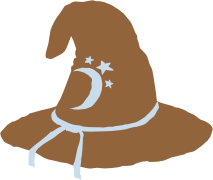
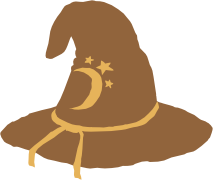
introductory section complete

Changed region(s): [[0.1127, 0.5556, 0.7606, 1.0], [0.338, 0.3056, 0.5352, 0.6111]]

diff --git a/static/style.css b/static/style.css
@@ -1,6 +1,7 @@
 body {
     background-color: rgb(20,40,65);
     font-family: Ubuntu, Helvetica, sans-serif;
+    padding-bottom: 80px;
 }
 
 body > h1 {
@@ -10,19 +11,19 @@ body > h1 {
 
 #logo {
     text-align: center;
+    margin-bottom: -50px;
 }
 
 #sections {
     display: inline-block;
-    vertical-align: top;
-    margin-top: 50px;
-    margin-left: -60px;
-    width: 200px;
+    vertical-align: bottom;
+    padding-bottom: 30px;
+    margin-left: -55px;
     font-size: 24px;
-    margin-bottom: 40px;
 }
 
-#sections a:link, #sections a:visited {
+#sections a:link,
+#sections a:visited {
     color: rgb(90,140,230);
     text-decoration: none;
 }
@@ -31,13 +32,20 @@ body > h1 {
     color: rgb(140,190,230);
 }
 
+.blue {
+    color: rgb(90,140,230);
+}
+
+.gold {
+    color: rgb(230,182,91);
+}
+
 #tagline {
     position: relative;
     color: rgb(90,140,230);
     max-width: 690px;
     margin: auto;
     font-size: 32px;
-    margin-top: -45px;
     margin-bottom: 40px;
 }
 
@@ -55,9 +63,49 @@ body > h1 {
     color: rgb(200,220,235);
 }
 
-#splash .step {
-    max-width: 500px;
+#splash .code {
+    border-color: rgb(90,140,230);
+    border-style: solid;
+    border-width: 2px;
+    border-radius: 5px;
+    
+    width: 600px;
+    padding: 5px;
+    
+    color: rgb(200,220,235);
     margin: auto;
+    margin-top: 10px;
+    margin-bottom: 10px;
+    
+    font-family: monospace;
+    font-size: 1.2em;
+    
+    background-color: rgb(20,30,49);
+}
+
+#splash .code .require {
+    color: rgb(90,140,230);
+}
+
+#splash .code .require .string {
+    color: rgb(230,182,91);
+}
+
+#splash .step {
+    max-width: 600px;
+    margin: auto;
+    margin-top: 1em;
+    margin-bottom: 1em;
+}
+
+#splash .step a:link,
+#splash .step a:visited {
+    color: rgb(90,140,230);
+    text-decoration: none;
+}
+
+#splash .step a:hover {
+    color: rgb(230,182,91);
 }
 
 #article-box {
@@ -87,7 +135,8 @@ body > h1 {
     padding-left: 5px;
 }
 
-.article .title a:link, .article .title a:visited {
+.article .title a:link,
+.article .title a:visited {
     color: rgb(230,240,245);
     text-decoration: none;
 }
@@ -97,7 +146,7 @@ body > h1 {
     text-decoration: underline;
 }
 
-.article .inner {
+.article > .inner {
     background-color: rgb(230,240,245);
     border-radius: 3px;
     color: rgb(5,10,24);
@@ -136,8 +185,9 @@ body > h1 {
 }
 
 #preview-box {
-    max-width: 700px;
+    max-width: 650px;
     margin: auto;
+    margin-top: 40px;
 }
 
 #preview-box .hat {
@@ -154,6 +204,9 @@ body > h1 {
 
 .preview {
     display: none;
+}
+
+.preview > .inner {
     border-color: rgb(90,140,230);
     border-style: solid;
     border-width: 2px;
@@ -161,7 +214,6 @@ body > h1 {
     
     background-color: rgb(60,105,145);
     width: 400px;
-    height: 50px;
     
     color: rgb(200,220,235);
     padding: 10px;
@@ -171,7 +223,8 @@ body > h1 {
     display: block;
 }
 
-.preview a:link, .preview a:visited {
+.preview a:link,
+.preview a:visited {
     color: rgb(200,220,235);
     text-decoration: none;
 }
@@ -183,6 +236,9 @@ body > h1 {
 
 .preview .label {
     color: rgb(140,190,230);
+    font-size: 1.3em;
+    margin-left: 5px;
+    margin-bottom: 12px;
 }
 
 .preview .arrows {
@@ -243,10 +299,4 @@ body > h1 {
     margin: auto;
     margin-top: 40px;
     margin-bottom: 40px;
-}
-
-#clone-me .code {
-    color: white;
-    font-family: monospace;
-    font-size: 18px;
 }

diff --git a/static/index.html b/static/index.html
@@ -27,14 +27,38 @@
     
     <div id="splash">
       <div class="step">
-        Write your browser code with
+        Write some browser code with
         <a href="http://nodejs.org/docs/latest/api/modules.html#modules_modules">node.js-style</a>
-        <span class="require">requires</span>.
+        <span class="require">requires</span>:
       </div>
+       
+<pre class="code">var foo = <span class="require">require(<span class="string">'./foo'</span>)</span>;
+var bar = <span class="require">require(<span class="string">'../lib/bar'</span>)</span>;
+var gamma = <span class="require">require(<span class="string">'gamma'</span>)</span>;
+
+var elem = document.getElementById('result');
+var x = foo(100) + bar('baz');
+elem.textContent = gamma(x);</pre>
       
       <div class="step">
-        browserify main.js -o bundle.js
+        Install modules with <a href="https://npmjs.org">npm</a>:
       </div>
+ 
+<pre class="code"><span class="blue">npm</span> install <span class="gold">gamma</span></pre>
+
+      <div class="step">
+        Now recursively bundle up all the required modules into a single file with the
+        <span class="gold">browserify</span> command:
+      </div>
+      
+<pre class="code"><span class="blue">browserify</span> <span class="gold">main.js</span> -o <span class="gold">bundle.js</span></pre>
+      
+      <div class="step">
+        Drop a single <span class="gold">&lt;script&gt;</span>
+ tag into your html and you're done!
+      </div>
+      
+<pre class="code"><span class="blue">&lt;script</span> src="<span class="gold">bundle.js</span>"<span class="blue">&gt;&lt;/script&gt;</span></pre>
       
       <ul>
         <li>
@@ -49,7 +73,7 @@
       <div id="install">
         <h1>install</h1>
         <div>With <a href="https://npmjs.org">npm</a>, do:</div>
-        <div class="code">npm install -g browserify</div>
+        <pre class="code">npm install -g browserify</pre>
       </div>
     </div>
     

diff --git a/browser/html/preview.js b/browser/html/preview.js
@@ -1,7 +1,7 @@
 module.exports = [
   '<div class="preview">',
     '<div class="label">',
-      'recent articles',
+      'recent browserify articles',
     '</div>',
     '<div class="inner">',
       '<div class="image"></div>',
